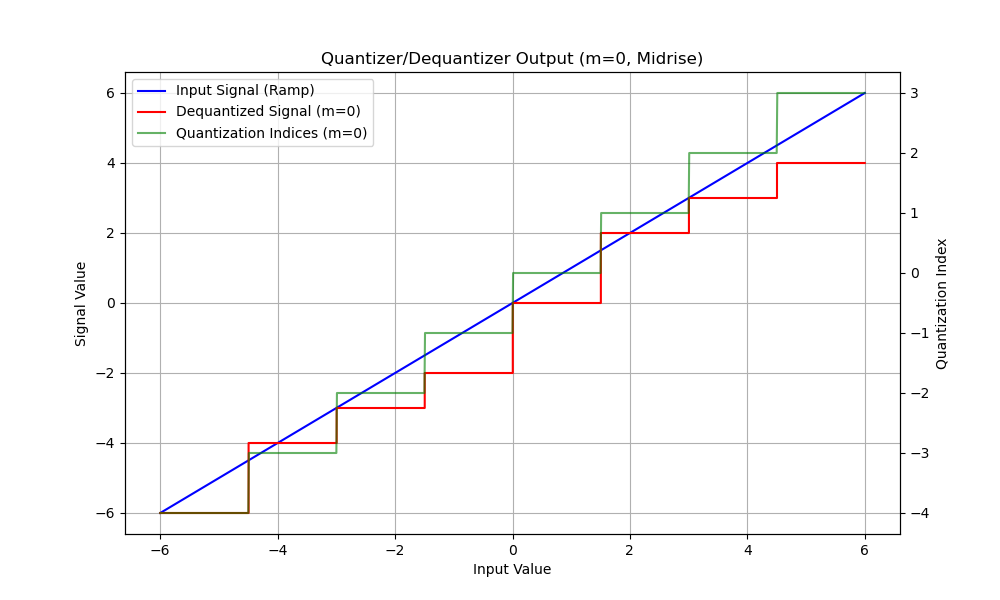
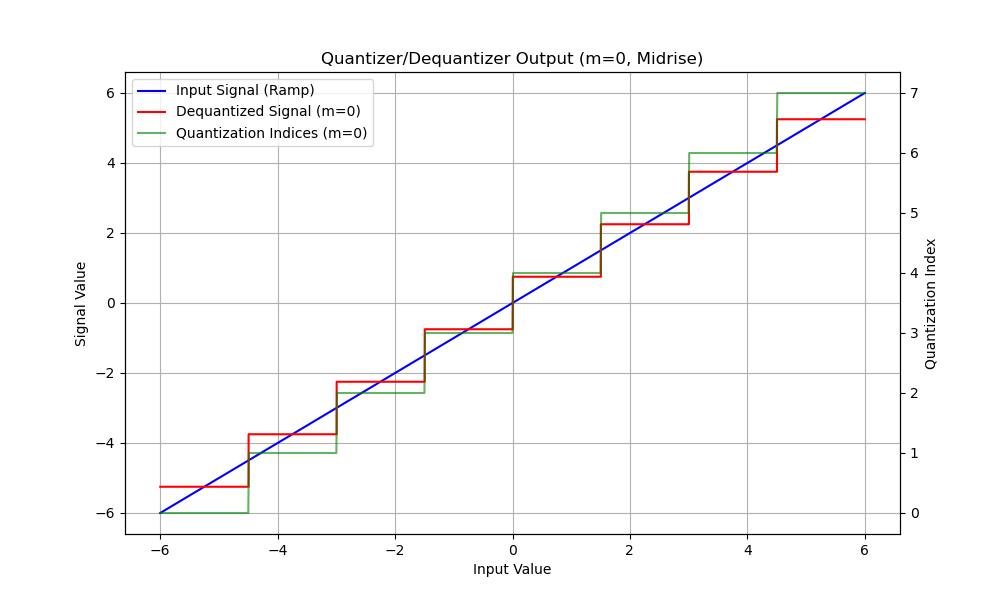
final code changes

diff --git a/assignment_one/testing.py b/assignment_one/testing.py
@@ -76,7 +76,7 @@ def random_test():
         snr_simulation_db = 10 * np.log10(input_power / error_power)
         snr_sim_db.append(snr_simulation_db)
         delta = (2 * x_max) / pow(2, n)
-        error_power = (delta ** 2) / 2
+        error_power = (delta ** 2) / 12
         snr_theoritical_db = 10 * np.log10(input_power / error_power)
         snr_theory_db.append(snr_theoritical_db)
     plt.figure(figsize=(10, 6))
@@ -127,15 +127,15 @@ def random_nonuniform_with_compression():
     SNR_mu = np.zeros((len(n_bits_values), len(mu_values)))
     for j, m in enumerate(mu_values):
         for i, n in enumerate(n_bits_values):
-            expanded_signal = signs * expand(
+            compressed_signal = signs * compress(
                 np.abs(non_uniform_random_variables), m) if m != 0 else non_uniform_random_variables
             q_sample = uniform_quantizer(
-                expanded_signal, n, x_max, 0)
+                compressed_signal, n, x_max, 0)
             deq_sample = uniform_dequantizer(q_sample, n, 5, 0)
-            compressed_signal = signs * compress(
+            expanded_signal = signs * expand(
                 np.abs(deq_sample), m) if m != 0 else deq_sample
             error_power = np.mean(
-                (non_uniform_random_variables - compressed_signal) ** 2)
+                (non_uniform_random_variables - expanded_signal) ** 2)
             input_power = np.mean(non_uniform_random_variables ** 2)
             snr_simulation_db = (input_power / error_power)
             SNR_mu[i][j] = snr_simulation_db
@@ -155,5 +155,5 @@ def random_nonuniform_with_compression():
 
 # deterministic_test()
 # random_test()
-# random_nonuniform_test()
+random_nonuniform_test()
 random_nonuniform_with_compression()

diff --git a/assignment_one/processing.py b/assignment_one/processing.py
@@ -17,7 +17,8 @@ def uniform_quantizer(in_val: np.ndarray, n: int, x_max: float, m: int) -> np.nd
     L = pow(2, n)
     delta = 2 * x_max / L
     offset = m * delta / 2
-    quantized_values = np.round((in_val - offset) // delta)
+    quantized_values = np.floor((in_val - offset + x_max) // delta)
+    quantized_values = np.clip(quantized_values, 0, L)
     return quantized_values
 
 
@@ -37,7 +38,7 @@ def uniform_dequantizer(q_val: np.ndarray, n: int, x_max: float, m: int) -> np.n
     L = pow(2, n)
     delta = 2 * x_max / L
     offset = m * delta / 2
-    org_values = np.round(q_val * delta + offset)
+    org_values = q_val * delta - x_max + offset + delta / 2
     org_values = np.clip(org_values, -x_max, x_max)
     return org_values
 
@@ -52,7 +53,7 @@ def expand(signal: np.ndarray, m: float):
     Returns:
         np.ndarray: compressed signal
     """
-    return (np.log10(1 + m * signal) / np.log10(1 + m))
+    return (((1 + m) ** signal) - 1) / m
 
 
 def compress(signal: np.ndarray, m: float):
@@ -65,4 +66,6 @@ def compress(signal: np.ndarray, m: float):
     Returns:
         np.ndarray: compressed signal
     """
-    return (((1 + m) ** signal) - 1) / m
+    xmax = np.max(np.abs(signal))
+    signal /= xmax
+    return (np.log10(1 + m * signal) / np.log10(1 + m))
